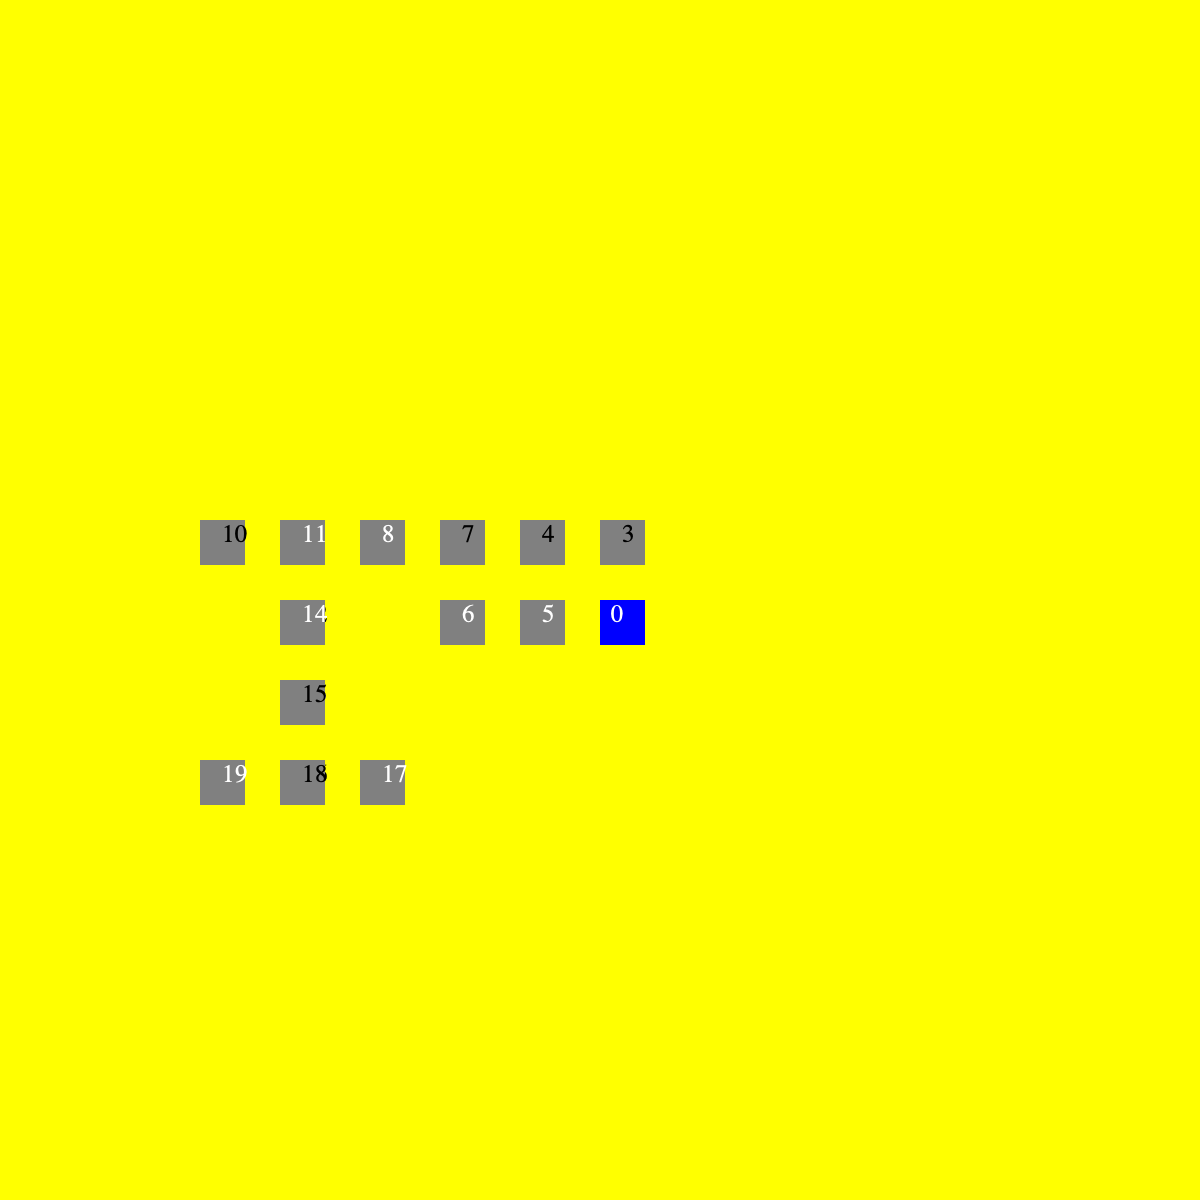
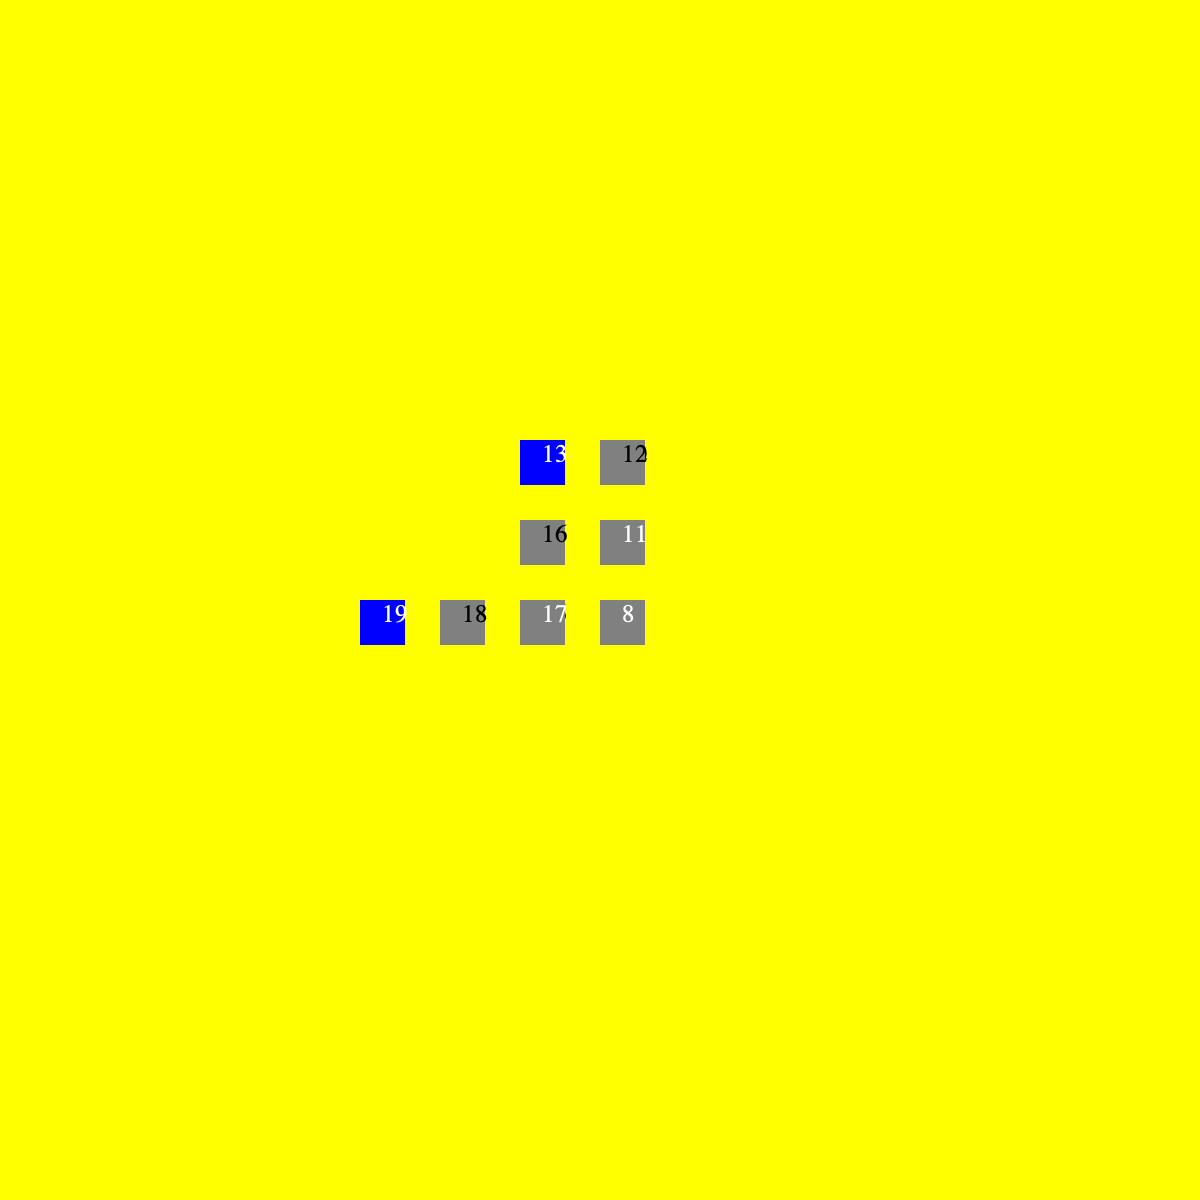
overlappings working

Changed region(s): [[0.1542, 0.4317, 0.4317, 0.6783], [0.4317, 0.3392, 0.555, 0.4317], [0.4933, 0.4933, 0.555, 0.555]]

diff --git a/ProteinFolding/src/com/company/ProteinGraphic.java b/ProteinFolding/src/com/company/ProteinGraphic.java
@@ -81,7 +81,7 @@ public class ProteinGraphic {
         case "ost":
           this.currentPointX +=  distance;
           if (type == 0 ) {
-            if (overlap = true){
+            if (overlap == true){
               this.g2.setColor(new Color(128,128,128));
             }else{
               this.g2.setColor(new Color(255, 0, 0));
@@ -95,7 +95,7 @@ public class ProteinGraphic {
             int labelWidth = metrics.stringWidth(label);
             g2.drawString(label, currentPointX + cellSize/2  , currentPointY + cellSize/2 );
           } else if (type == 1) {
-            if (overlap = true){
+            if (overlap == true){
               this.g2.setColor(new Color(128,128,128));
             }else{
               this.g2.setColor(new Color(0, 0, 255));
@@ -113,7 +113,7 @@ public class ProteinGraphic {
         case "west":
           this.currentPointX -= distance;
           if (type == 0) {
-            if (overlap = true){
+            if (overlap == true){
               this.g2.setColor(new Color(128,128,128));
             }else{
               this.g2.setColor(new Color(255, 0, 0));
@@ -127,7 +127,7 @@ public class ProteinGraphic {
             int labelWidth = metrics.stringWidth(label);
             g2.drawString(label, currentPointX + cellSize/2  , currentPointY + cellSize/2 );
           } else if (type == 1) {
-            if (overlap = true){
+            if (overlap == true){
               this.g2.setColor(new Color(128,128,128));
             }else{
               this.g2.setColor(new Color(0, 0, 255));
@@ -145,7 +145,7 @@ public class ProteinGraphic {
         case "süd":
           this.currentPointY -= distance;
           if (type == 0) {
-            if (overlap = true){
+            if (overlap == true){
               this.g2.setColor(new Color(128,128,128));
             }else{
               this.g2.setColor(new Color(255, 0, 0));
@@ -159,7 +159,7 @@ public class ProteinGraphic {
             int labelWidth = metrics.stringWidth(label);
             g2.drawString(label, currentPointX + cellSize/2  , currentPointY + cellSize/2 );
           } else if (type == 1) {
-            if (overlap = true){
+            if (overlap == true){
               this.g2.setColor(new Color(128,128,128));
             }else{
               this.g2.setColor(new Color(0, 0, 255));
@@ -177,7 +177,7 @@ public class ProteinGraphic {
         case "nord":
           this.currentPointY +=  distance;
           if (type == 0) {
-            if (overlap = true){
+            if (overlap == true){
               this.g2.setColor(new Color(128,128,128));
             }else{
               this.g2.setColor(new Color(255, 0, 0));
@@ -192,7 +192,7 @@ public class ProteinGraphic {
             g2.drawString(label, currentPointX + cellSize/2  , currentPointY + cellSize/2 );
             break;
           } else if (type == 1) {
-            if (overlap = true){
+            if (overlap == true){
               this.g2.setColor(new Color(128,128,128));
             }else{
               this.g2.setColor(new Color(0, 0, 255));

diff --git a/ProteinFolding/src/com/company/GeneticAlgorithm.java b/ProteinFolding/src/com/company/GeneticAlgorithm.java
@@ -1,0 +1,5 @@
+package com.company;
+
+public class GeneticAlgorithm {
+
+}
